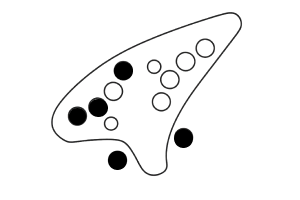
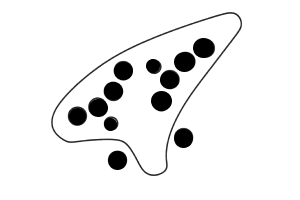
Added all notes

Changed region(s): [[0.48, 0.18, 0.72, 0.57], [0.33, 0.39, 0.42, 0.51], [0.33, 0.57, 0.39, 0.66]]

diff --git a/my-ocarina-app/src/App.jsx b/my-ocarina-app/src/App.jsx
@@ -10,12 +10,35 @@ function App() {
   const [outputLines, setOutputLines] = useState([]);
 
   const noteMap = {
-    C:"C.png", Do:"C.png", D:"D.png", Re:"D.png",
-    E:"E.png", Mi:"E.png", F:"F.png", Fa:"F.png",
-    G:"G.png", Sol:"G.png", A:"A.png", La:"A.png",
-    B:"B.png", Si:"B.png", c:"c_y.png", do:"c_y.png",
-    d:"d_y.png", re:"d_y.png", e:"e_y.png", mi:"e_y.png",
-    f:"f_y.png", fa:"f_y.png"
+    // Middle octave (capital)
+    C: "C.png",
+    D: "D.png",
+    E: "E.png",
+    F: "F.png",
+    G: "G.png",
+    A: "A.png",
+    B: "B.png",
+
+    // Upper octave (lowercase)
+    c: "c_y.png",
+    d: "d_y.png",
+    e: "e_y.png",
+    f: "f_y.png",
+    g: "g_y.png",
+    a: "a_y.png",
+    b: "b_y.png",
+
+    // Sharps (middle octave)
+    "C#": "Csharp.png",
+    "D#": "Dsharp.png",
+    "F#": "Fsharp.png",
+    "G#": "Gsharp.png",
+    "A#": "Asharp.png",
+
+    // Sharps (upper octave)
+    "c#": "c_ysharp.png",
+    "d#": "d_ysharp.png",
+    "a#": "a_ysharp.png",
   };
 
   const handleConvert = () => {
@@ -23,16 +46,24 @@ function App() {
       alert("Please enter your notes!");
       return;
     }
-    
-    const allTokens = notes.split(/\s+/).filter(Boolean);
+
+    // Satırlara ayır ve her notayı boşluklara göre böl
+    const lines = notes.split("\n").map(line =>
+      line
+        .trim()
+        .split(/\s+/) // boşluklara göre ayır
+        .filter(Boolean)
+    );
+
+    // Hatalı notaları bul
+    const allTokens = lines.flat();
     const invalidTokens = allTokens.filter(t => !noteMap[t]);
-    
+
     if (invalidTokens.length > 0) {
-      alert(`Invalid character(s): ${[...new Set(invalidTokens)].join(", ")}`);
+      alert(`Invalid note(s): ${[...new Set(invalidTokens)].join(", ")}`);
       return;
     }
-    
-    const lines = notes.split("\n").map(l => l.split(/\s+/).filter(Boolean));
+
     setOutputLines(lines);
   };
 
@@ -44,22 +75,22 @@ function App() {
   return (
     <div className="min-h-screen bg-gradient-to-br from-green-600 via-teal-700 to-cyan-800">
       <Navigation />
-      
+
       <div className="container mx-auto px-4 py-8">
         <HeaderCard />
         <InfoCard />
-        <InputCard 
+        <InputCard
           notes={notes}
           setNotes={setNotes}
           handleConvert={handleConvert}
           clearNotes={clearNotes}
         />
-        
+
         {outputLines.length > 0 && (
           <OutputCard outputLines={outputLines} noteMap={noteMap} />
         )}
       </div>
-      
+
       <footer className="bg-black/20 backdrop-blur-md border-t border-white/20 py-6 mt-16">
         <div className="max-w-7xl mx-auto px-4 text-center text-white/60">
           <p>&copy;  2025 Aley Aley. Ocarina Note Converter. Tüm hakları saklıdır.</p>

diff --git a/my-ocarina-app/src/components/InfoCard.jsx b/my-ocarina-app/src/components/InfoCard.jsx
@@ -22,17 +22,37 @@ export default function InfoCard() {
 
         {isExpanded && (
           <div className="mt-4 text-white/90 space-y-3">
-            <p>Thanks to this tool, you can see the notes you write with the finger positions on the ocarina. </p>
-            <p> On this platform, the ocarina is 12-hole and the international standard tuning is made on C major (C Major).</p>
+            <p>
+              Thanks to this tool, you can see the finger positions for the
+              notes you write. This platform is designed for a 12-hole ocarina
+              tuned in C major.
+            </p>
+
+            <p>
+              Notes are written in two octaves. Capital letters represent the
+              <strong> middle octave</strong> (lower sounds), and lowercase
+              letters represent the <strong> upper octave</strong> (higher
+              sounds).
+            </p>
 
             <div className="grid md:grid-cols-2 gap-4 mt-4">
               <div className="bg-white/10 rounded-xl p-4">
-                <h3 className="font-semibold text-blue-200 mb-2">Capital Letters (Middle Octave)</h3>
-                <p className="text-sm">C, D, E, F, G, A, B or Do, Re, Mi, Fa, Sol, La, Si</p>
+                <h3 className="font-semibold text-blue-200 mb-2">
+                  Capital Letters (Middle Octave)
+                </h3>
+                <p className="text-sm">
+                  C, D, E, F, G, A, B <br />
+                  Example: A = A4 (Low A), A# = A#4 (Low A sharp)
+                </p>
               </div>
               <div className="bg-white/10 rounded-xl p-4">
-                <h3 className="font-semibold text-purple-200 mb-2">Lowercase Letters (Upper Octave)</h3>
-                <p className="text-sm">c, d, e, f or do, re, mi, fa</p>
+                <h3 className="font-semibold text-purple-200 mb-2">
+                  Lowercase Letters (Upper Octave)
+                </h3>
+                <p className="text-sm">
+                  c, d, e, f ... <br />
+                  Example: a = A5 (High A), a# = A#5 (High A sharp)
+                </p>
               </div>
             </div>
           </div>

diff --git a/my-ocarina-app/src/components/InputCard.jsx b/my-ocarina-app/src/components/InputCard.jsx
@@ -13,7 +13,7 @@ export default function InputCard({ notes, setNotes, handleConvert, clearNotes }
           className="w-full h-40 p-4 rounded-xl border border-white/30 bg-white/10 text-white placeholder-white/50 focus:outline-none focus:ring-2 focus:ring-blue-400 focus:border-blue-400 transition-all resize-none backdrop-blur-sm"
           value={notes}
           onChange={(e) => setNotes(e.target.value)}
-          placeholder="Example :&#10;C D E F G A B&#10;c d e f&#10;Do Re Mi Fa Sol La Si"
+          placeholder="Example :&#10;C D E F G A B&#10;c d e f&#10;a# c# d#&#10;A# C# D# F#"
         />
         
         <div className="flex flex-wrap gap-3 mt-6">
